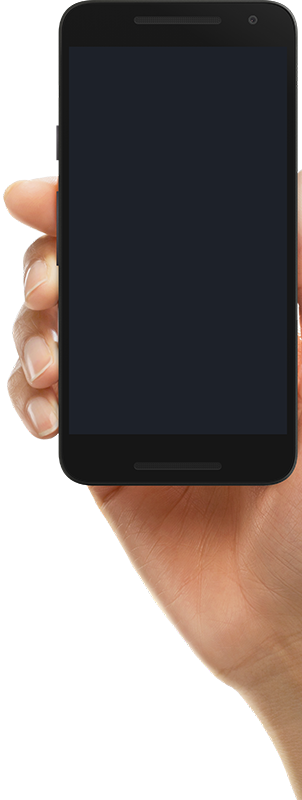
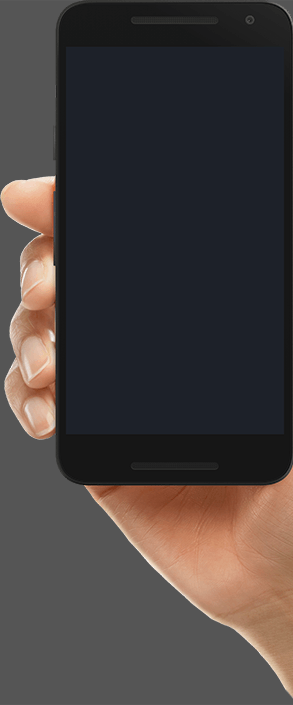
added hand for phone

diff --git a/3ds2/css/style.css b/3ds2/css/style.css
@@ -479,35 +479,42 @@ strong, .badge, .form label {
   font-family: "Amazon Ember",Arial,sans-serif;
 }
 
-@media (min-width: 0px){
-  .text-message {
-    background: #555;
-    text-align: center;
-    padding: 10px 0;
-  }
-  .text-message .message {
-    text-align: left;
-    width: 300px;
-    display: inline-block;
-  }
-  .message-header {
-    background: #f1f1f1;
-    padding: 5px 13px;
-    border-radius:12px 12px 0 0;
-    text-transform: uppercase;
-    font-size: 11px;
-    color: #555;
-  }
-  .message-body {
-    background: #ddd;
-    padding: 5px 15px;
-    border-radius:0 0 12px 12px;
-    font-size: 13px;
-  }
-  .text-message p {
-    margin: 0;
-  }
+
+.text-message {
+  background: #555;
+  text-align: center;
+  padding: 10px 0;
+  box-shadow: inset 3px 3px 5px 0px rgba(0,0,0,0.5);
 }
+.text-message .message {
+  text-align: left;
+  width: 300px;
+  display: inline-block;
+}
+.message-header {
+  background: #f1f1f1;
+  padding: 5px 13px;
+  border-radius:12px 12px 0 0;
+  text-transform: uppercase;
+  font-size: 11px;
+  color: #555;
+}
+.message-body {
+  background: #ddd;
+  padding: 5px 15px;
+  border-radius:0 0 12px 12px;
+  font-size: 13px;
+}
+.text-message p {
+  margin: 0;
+}
+.text-message h3 {
+  display: none;
+}
+.text-message .hand {
+  display: none;
+}
+
 @media (min-width: 769px){
   .text-message {
     position: absolute;
@@ -515,13 +522,35 @@ strong, .badge, .form label {
     right:0;
     width: 30%;
     height: 100%;
-    padding: 15px;
+    padding: 0;
+    overflow: hidden;
   }
   .text-message .message {
     width: auto;
-    max-width: 300px;
+    width: 200px;
+    position: absolute;
+    z-index: 2;
+    top: 105px;
+    right: 25px;
   }
   .page {
     width: 70%;
+  }
+  .text-message .hand {
+    display: block;
+    background: url("../img/phone.png") no-repeat;
+    width: 293px;
+    height: 705px;
+    position: absolute;
+    z-index: 1;
+    top: 50px;
+    right: 0;
+  }
+  .text-message h3 {
+    display: block;
+    color: #bbb;
+    line-height: 18px;
+    text-align: left;
+    margin: 10px 10px 0;
   }
 }

diff --git a/3ds2/index.html b/3ds2/index.html
@@ -22,6 +22,7 @@
 <body>
   <div class="clearfix">
     <section class="text-message" v-bind:class="{ 'd-none' : !sms.smsIsVisible }">
+      <h3>You get a text message on your phone:</h3>
       <!--<div class="modal" tabindex="-1" role="dialog" id="smsModal" data-backdrop="false">
         <div class="modal-dialog" role="document">
           <div class="modal-content">-->
@@ -36,6 +37,7 @@
           <!--</div>
         </div>
       </div>-->
+      <div class="hand"></div>
     </section>
 
   <div class="page" id="osa-page">
